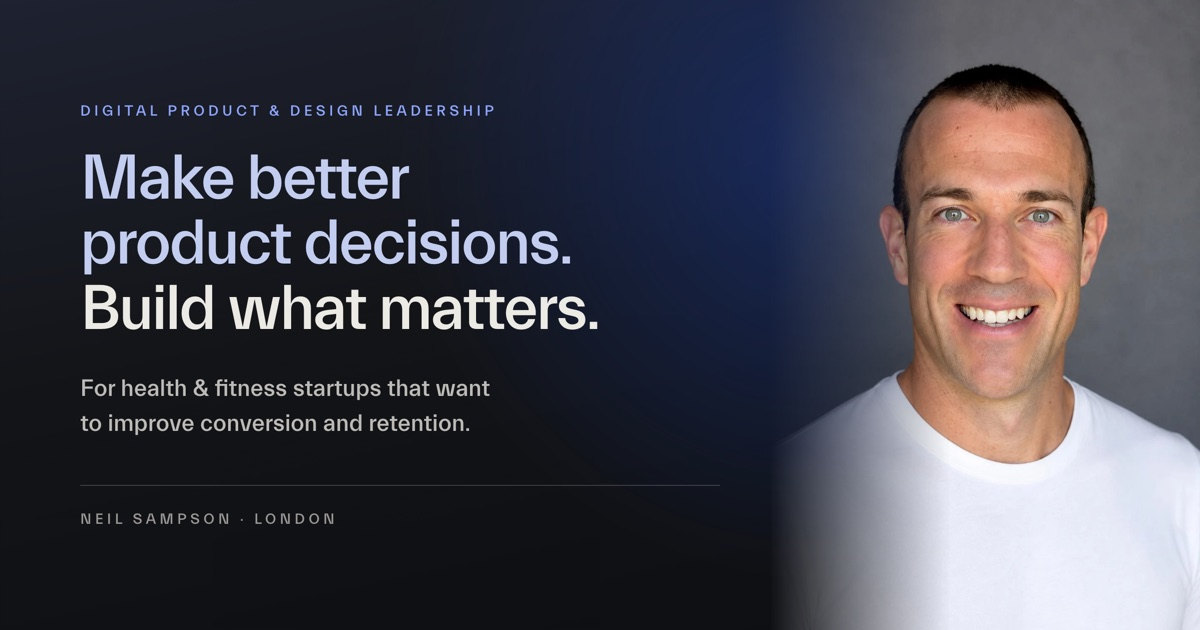
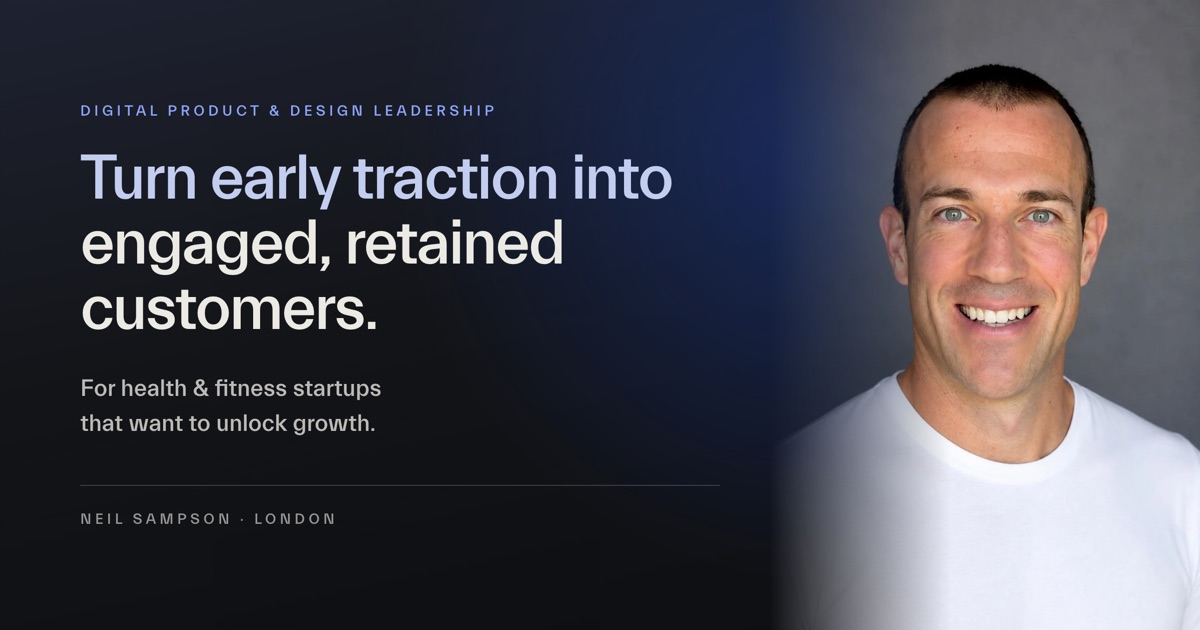
Put the new headline on the share card
The card now matches the hero, Turn early traction into engaged, retained
customers, with a shorter lead line, regenerated under every cached
filename. The image alt text on every page follows.

Changed region(s): [[0.0617, 0.2413, 0.5858, 0.5429], [0.0617, 0.6635, 0.4008, 0.6937], [0.3083, 0.6032, 0.4008, 0.6333]]

diff --git a/case-ampersand.html b/case-ampersand.html
@@ -28,7 +28,7 @@
 <meta property="og:image" content="https://neil-sampson.com/assets/share-card-decisions.jpg">
 <meta property="og:image:width" content="1200">
 <meta property="og:image:height" content="630">
-<meta property="og:image:alt" content="Neil Sampson, product and design leadership for health &amp; fitness startups: make better product decisions, build what matters">
+<meta property="og:image:alt" content="Neil Sampson, product and design leadership for health &amp; fitness startups: turn early traction into engaged, retained customers">
 <meta name="twitter:image" content="https://neil-sampson.com/assets/share-card-decisions.jpg">
 
 <link rel="icon" type="image/png" sizes="32x32" href="assets/favicon-32.png">

diff --git a/case-bpp.html b/case-bpp.html
@@ -28,7 +28,7 @@
 <meta property="og:image" content="https://neil-sampson.com/assets/share-card-decisions.jpg">
 <meta property="og:image:width" content="1200">
 <meta property="og:image:height" content="630">
-<meta property="og:image:alt" content="Neil Sampson, product and design leadership for health &amp; fitness startups: make better product decisions, build what matters">
+<meta property="og:image:alt" content="Neil Sampson, product and design leadership for health &amp; fitness startups: turn early traction into engaged, retained customers">
 <meta name="twitter:image" content="https://neil-sampson.com/assets/share-card-decisions.jpg">
 
 <link rel="icon" type="image/png" sizes="32x32" href="assets/favicon-32.png">

diff --git a/case-fca.html b/case-fca.html
@@ -28,7 +28,7 @@
 <meta property="og:image" content="https://neil-sampson.com/assets/share-card-decisions.jpg">
 <meta property="og:image:width" content="1200">
 <meta property="og:image:height" content="630">
-<meta property="og:image:alt" content="Neil Sampson, product and design leadership for health &amp; fitness startups: make better product decisions, build what matters">
+<meta property="og:image:alt" content="Neil Sampson, product and design leadership for health &amp; fitness startups: turn early traction into engaged, retained customers">
 <meta name="twitter:image" content="https://neil-sampson.com/assets/share-card-decisions.jpg">
 
 <link rel="icon" type="image/png" sizes="32x32" href="assets/favicon-32.png">

diff --git a/case-lindblad.html b/case-lindblad.html
@@ -28,7 +28,7 @@
 <meta property="og:image" content="https://neil-sampson.com/assets/share-card-decisions.jpg">
 <meta property="og:image:width" content="1200">
 <meta property="og:image:height" content="630">
-<meta property="og:image:alt" content="Neil Sampson, product and design leadership for health &amp; fitness startups: make better product decisions, build what matters">
+<meta property="og:image:alt" content="Neil Sampson, product and design leadership for health &amp; fitness startups: turn early traction into engaged, retained customers">
 <meta name="twitter:image" content="https://neil-sampson.com/assets/share-card-decisions.jpg">
 
 <link rel="icon" type="image/png" sizes="32x32" href="assets/favicon-32.png">

diff --git a/case-polesdon.html b/case-polesdon.html
@@ -28,7 +28,7 @@
 <meta property="og:image" content="https://neil-sampson.com/assets/share-card-decisions.jpg">
 <meta property="og:image:width" content="1200">
 <meta property="og:image:height" content="630">
-<meta property="og:image:alt" content="Neil Sampson, product and design leadership for health &amp; fitness startups: make better product decisions, build what matters">
+<meta property="og:image:alt" content="Neil Sampson, product and design leadership for health &amp; fitness startups: turn early traction into engaged, retained customers">
 <meta name="twitter:image" content="https://neil-sampson.com/assets/share-card-decisions.jpg">
 
 <link rel="icon" type="image/png" sizes="32x32" href="assets/favicon-32.png">

diff --git a/services.html b/services.html
@@ -28,7 +28,7 @@
 <meta property="og:image" content="https://neil-sampson.com/assets/share-card-decisions.jpg">
 <meta property="og:image:width" content="1200">
 <meta property="og:image:height" content="630">
-<meta property="og:image:alt" content="Neil Sampson, product and design leadership for health &amp; fitness startups: make better product decisions, build what matters">
+<meta property="og:image:alt" content="Neil Sampson, product and design leadership for health &amp; fitness startups: turn early traction into engaged, retained customers">
 <meta name="twitter:image" content="https://neil-sampson.com/assets/share-card-decisions.jpg">
 
 <link rel="icon" type="image/png" sizes="32x32" href="assets/favicon-32.png">

diff --git a/index.html b/index.html
@@ -28,7 +28,7 @@
 <meta property="og:image" content="https://neil-sampson.com/assets/share-card-decisions.jpg">
 <meta property="og:image:width" content="1200">
 <meta property="og:image:height" content="630">
-<meta property="og:image:alt" content="Neil Sampson, product and design leadership for health &amp; fitness startups: make better product decisions, build what matters">
+<meta property="og:image:alt" content="Neil Sampson, product and design leadership for health &amp; fitness startups: turn early traction into engaged, retained customers">
 <meta name="twitter:image" content="https://neil-sampson.com/assets/share-card-decisions.jpg">
 
 <script type="application/ld+json">

diff --git a/why-neil.html b/why-neil.html
@@ -28,7 +28,7 @@
 <meta property="og:image" content="https://neil-sampson.com/assets/share-card-decisions.jpg">
 <meta property="og:image:width" content="1200">
 <meta property="og:image:height" content="630">
-<meta property="og:image:alt" content="Neil Sampson, product and design leadership for health &amp; fitness startups: make better product decisions, build what matters">
+<meta property="og:image:alt" content="Neil Sampson, product and design leadership for health &amp; fitness startups: turn early traction into engaged, retained customers">
 <meta name="twitter:image" content="https://neil-sampson.com/assets/share-card-decisions.jpg">
 
 

diff --git a/tools/share-card.html b/tools/share-card.html
@@ -157,8 +157,8 @@
 
 <div class="inner">
   <span class="eyebrow">Digital product &amp; design leadership</span>
-  <h1><em>Make better<br>product decisions.</em><br>Build what matters.</h1>
-  <p class="lead">For health &amp; fitness startups that want to improve conversion and retention.</p>
+  <h1><em>Turn early traction into</em><br>engaged, retained customers.</h1>
+  <p class="lead">For health &amp; fitness startups that want to unlock growth.</p>
   <div class="rule"></div>
   <div class="colophon">Neil Sampson &#183; London</div>
 </div>
